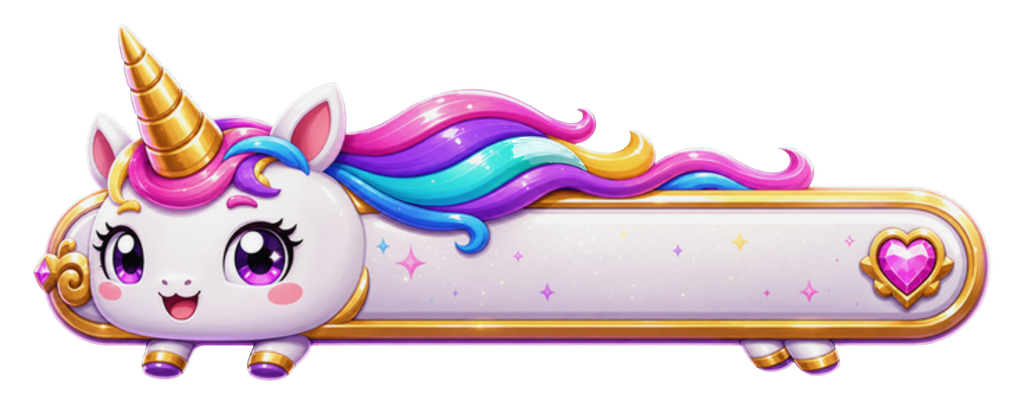
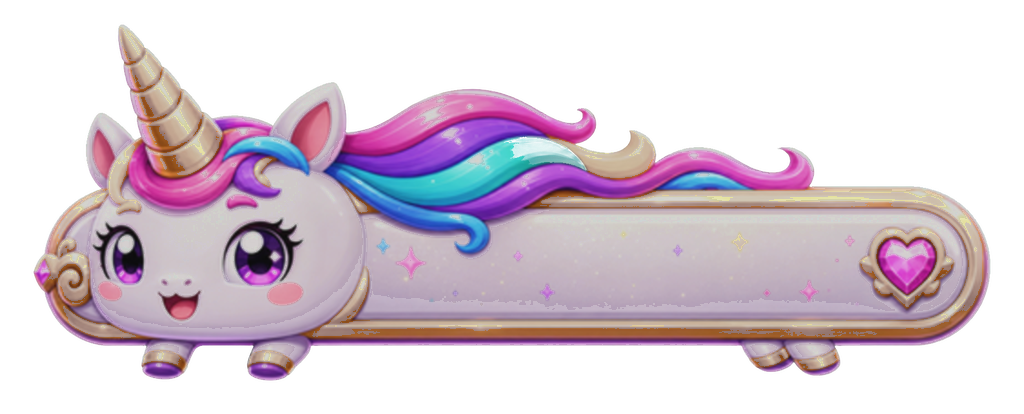
Soften paddle art and arena border

diff --git a/src/core/Renderer.js b/src/core/Renderer.js
@@ -84,12 +84,17 @@ export class Renderer {
       return;
     }
 
-    ctx.strokeStyle = "rgba(230, 193, 91, 0.45)";
-    ctx.lineWidth = 5;
-    ctx.strokeRect(10, 10, LOGICAL_WIDTH - 20, LOGICAL_HEIGHT - 20);
-    ctx.strokeStyle = "rgba(97, 215, 198, 0.22)";
+    ctx.save();
+    ctx.shadowColor = "rgba(83, 217, 255, 0.18)";
+    ctx.shadowBlur = 10;
+    ctx.strokeStyle = "rgba(255, 201, 90, 0.18)";
     ctx.lineWidth = 2;
+    ctx.strokeRect(11, 11, LOGICAL_WIDTH - 22, LOGICAL_HEIGHT - 22);
+    ctx.shadowBlur = 0;
+    ctx.strokeStyle = "rgba(83, 217, 255, 0.12)";
+    ctx.lineWidth = 1;
     ctx.strokeRect(20, 20, LOGICAL_WIDTH - 40, LOGICAL_HEIGHT - 40);
+    ctx.restore();
   }
 
   drawAttractScene(ctx, game) {
